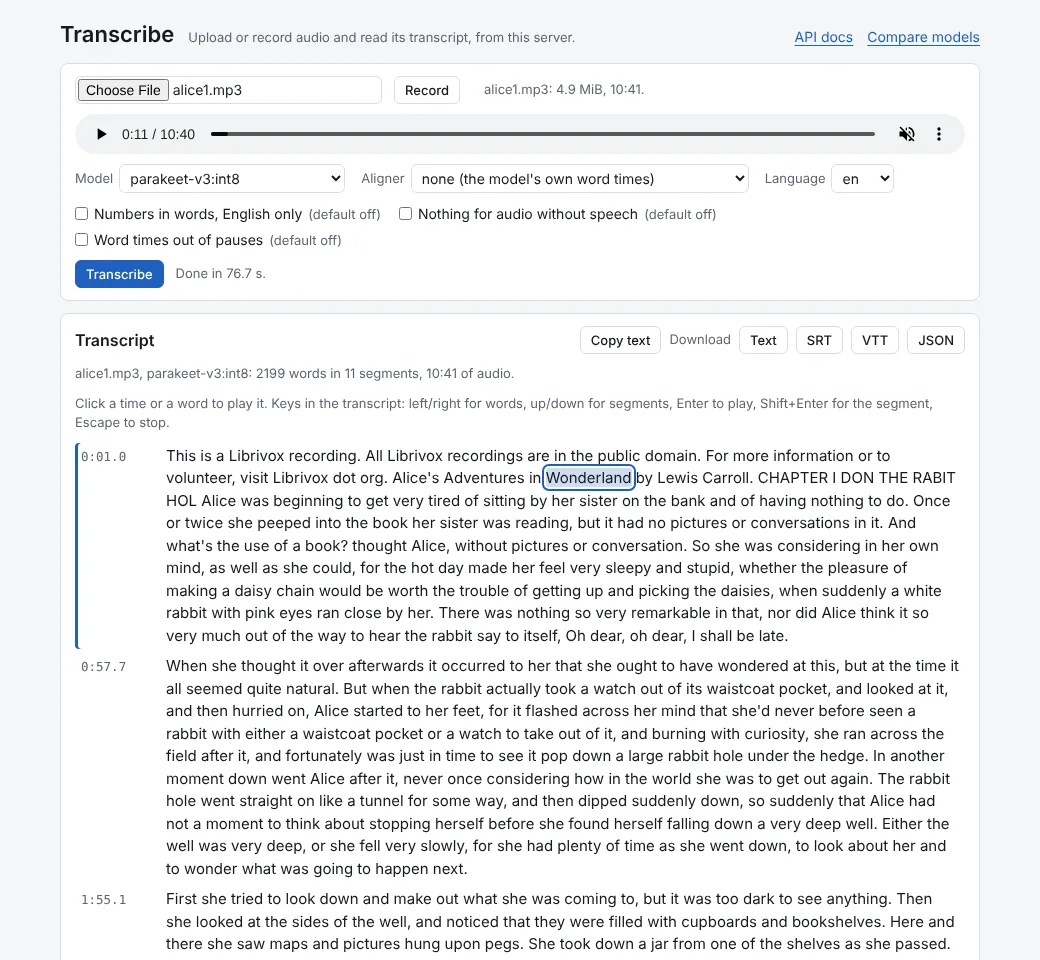
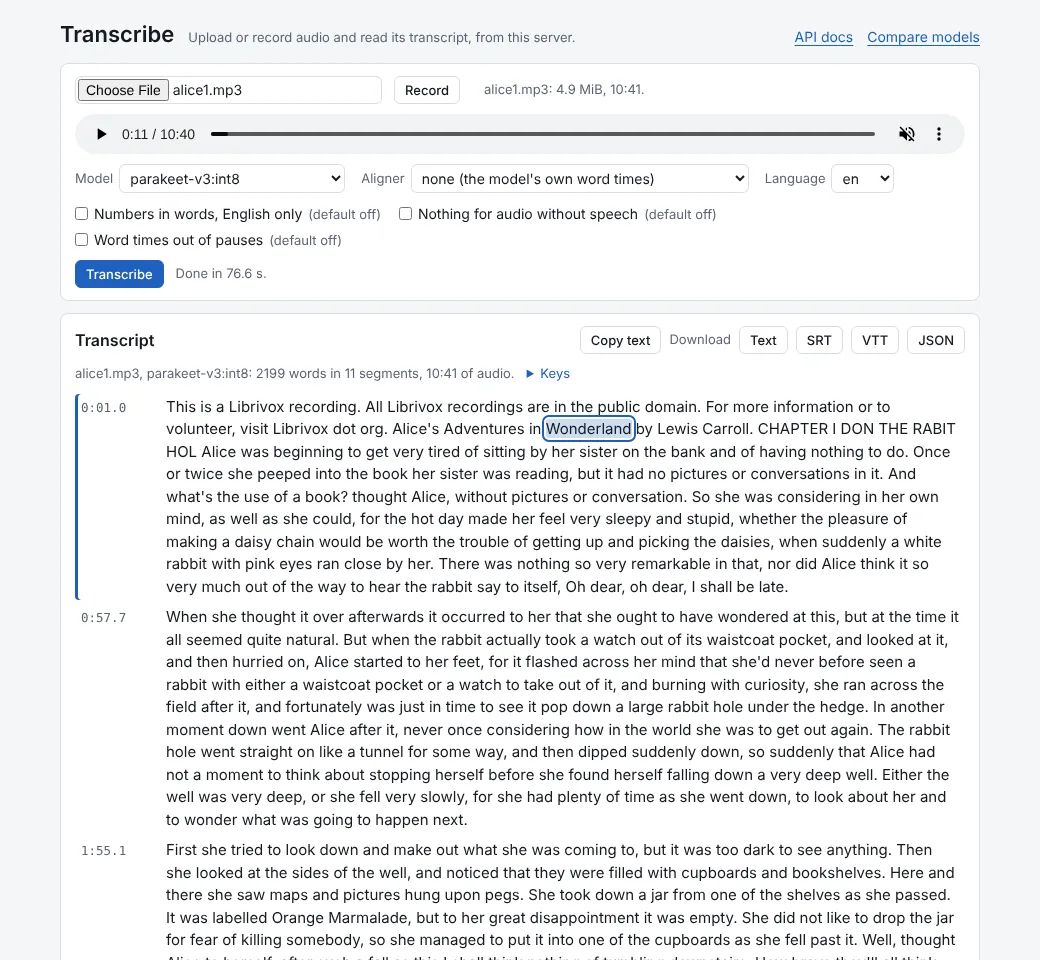
style(service): fold the transcript's key help into a Keys toggle
Claude-Session: https://claude.ai/code/session_01MmuE1wC3AvugsShqjJu5qJ

Changed region(s): [[0.0615, 0.375, 0.9231, 1.0], [0.0615, 0.625, 0.0923, 0.6562]]

diff --git a/parakeet_service/transcribe.html b/parakeet_service/transcribe.html
@@ -67,6 +67,8 @@ audio { width: 100%; height: 40px; }
 progress { width: min(320px, 100%); accent-color: var(--accent); }
 .toolbar { display: flex; flex-wrap: wrap; align-items: center; gap: 8px; }
 .toolbar h2 { margin-right: auto; }
+.keys summary { cursor: pointer; color: var(--accent); }
+.keys[open] { flex-basis: 100%; }
 .segments { margin: 0; padding: 0; list-style: none; display: grid; gap: 4px; }
 .segments li { display: grid; grid-template-columns: 5em minmax(0, 1fr); align-items: baseline; gap: 10px; padding: 2px 6px; border-radius: 4px; }
 .segments li.now { box-shadow: inset 3px 0 var(--accent); }
@@ -133,8 +135,10 @@ progress { width: min(320px, 100%); accent-color: var(--accent); }
         <button class="btn" type="button" data-download="json" aria-label="Download as JSON">JSON</button>
       </span>
     </div>
-    <p class="hint" id="resultInfo" role="status"></p>
-    <p class="hint" id="keysHelp">Click a time or a word to play it. Keys in the transcript: left/right for words, up/down for segments, Enter to play, Shift+Enter for the segment, Escape to stop.</p>
+    <div class="row">
+      <span class="hint" id="resultInfo" role="status"></span>
+      <details class="hint keys"><summary>Keys</summary><p id="keysHelp">Click a time or a word to play it. In the transcript: left/right for words, up/down for segments, Enter plays, Shift+Enter plays the segment, Escape stops.</p></details>
+    </div>
     <ol class="segments" id="segments" aria-describedby="keysHelp"></ol>
   </section>
 </div>
